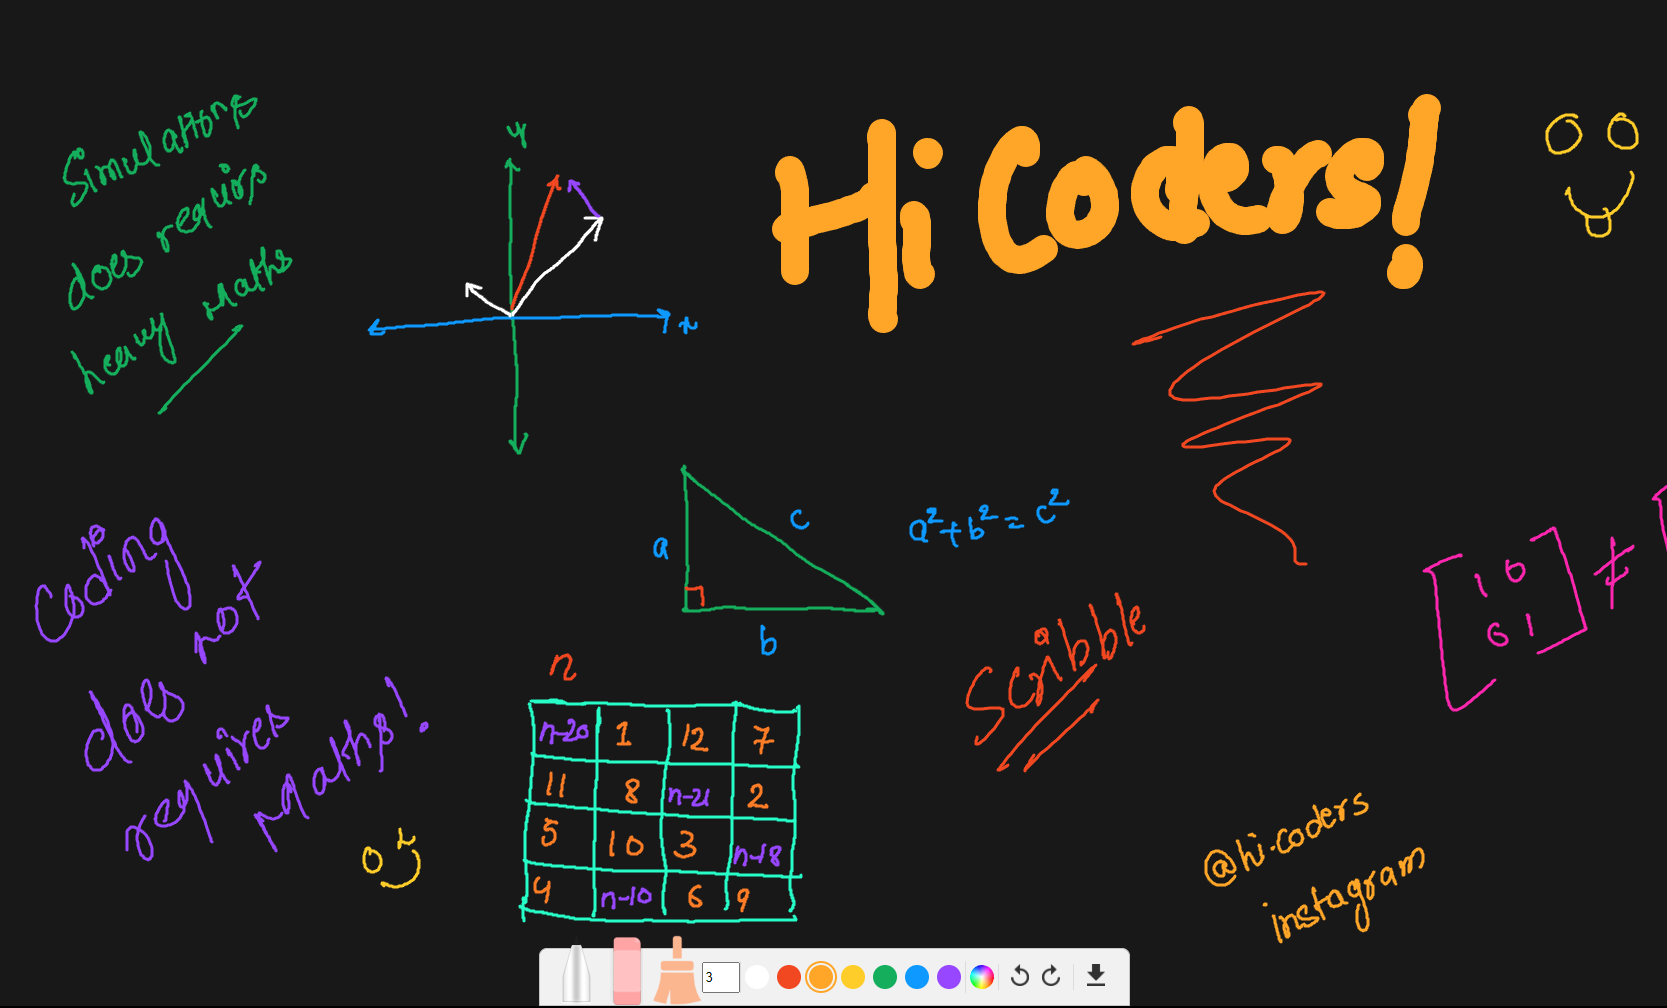
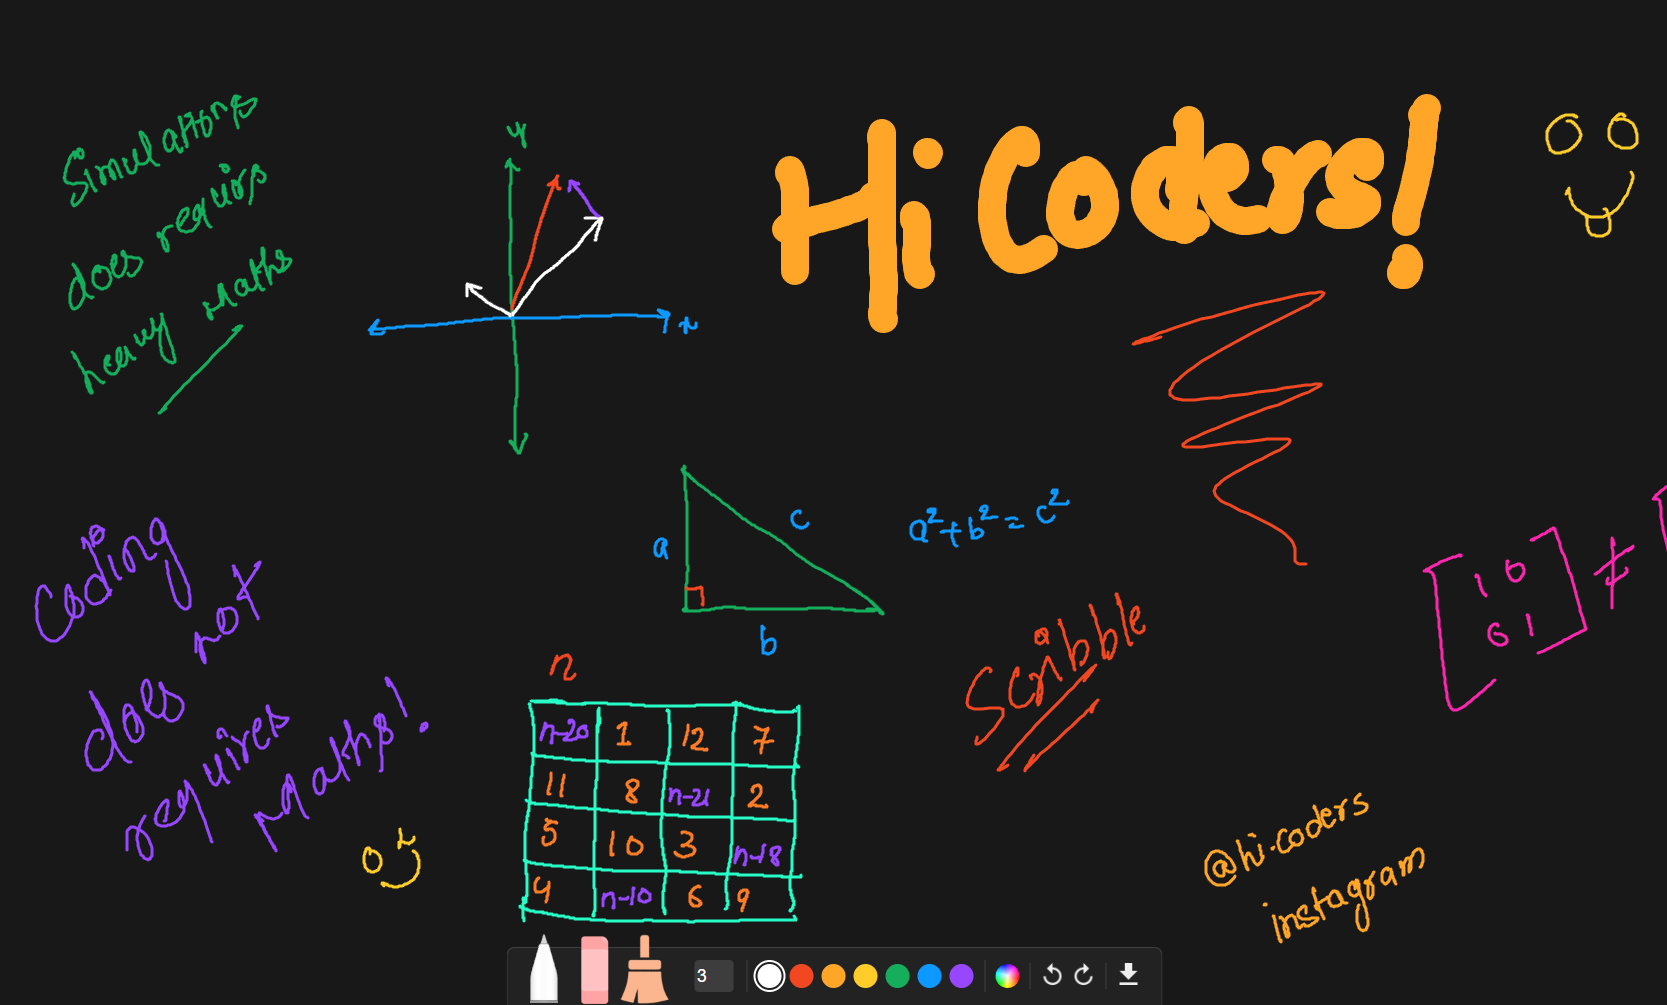
feat/fix: converted to dark mode & bug fix

diff --git a/index.html b/index.html
@@ -16,13 +16,13 @@
         <div class="dt-tools-container">
           <img src="./assets/eraser.png" title="Eraser" id="eraser" alt="" />
         </div>
-        <div class="dt-tools-container">
+        <div class="dt-tools-container" style="margin-right: 0.8rem">
           <img src="./assets/clear-all.png" title="clear" id="clear" alt="" />
         </div>
         <input type="number" min="1" max="100" id="size" value="3" />
 
         <div class="dt-dc-container">
-          <div class="dt-default-colors" data-color="#000000">
+          <div class="dt-default-colors" data-color="#ffffff">
             <div></div>
           </div>
           <div class="dt-default-colors" data-color="#f24822">
@@ -85,17 +85,23 @@
     </div>
     <script src="lib/DrawingTablet.js"></script>
     <script>
+      let isBrush = true;
+      let opts = {
+        brushColor: "#ffffff",
+        brushSize: parseInt(size.value),
+      };
+
+      // Initializing Drawing Tablet
       const dt = new DrawingTablet("#canvas-container", {
         logs: true,
         fullscreen: true,
-        brushSize: 5,
-        bg: "#ffffff",
+        brushSize: opts.brushSize,
+        bg: "#181818",
+        color: opts.brushColor,
         autosave: true,
       });
 
       dt.log("Drawing Tablet Initialized");
-
-      dt.brushSize = parseInt(size.value);
 
       const dcs = document.querySelectorAll(".dt-default-colors");
       const dcp = document.querySelectorAll(".dt-cp-container");
@@ -104,34 +110,37 @@
         e.children[0].style.background = e.dataset.color;
         selectColor();
         e.addEventListener("click", () => {
-          dt.brushColor = e.dataset.color;
+          if (isBrush) {
+            dt.brushColor = e.dataset.color;
+            opts.brushColor = e.dataset.color;
+          } else {
+            opts.brushColor = e.dataset.color;
+          }
           selectColor();
         });
       });
       function selectColor() {
         dcs.forEach((el) => {
           el.style.border = `2px solid  ${
-            dt.brushColor === el.dataset.color
+            opts.brushColor === el.dataset.color
               ? el.dataset.color
               : "transparent"
           }`;
         });
       }
-      dtPicker.oninput = (e) => {
+      dtPicker.addEventListener("input", (e) => {
         dt.brushColor = e.target.value;
         selectColor();
-      };
+      });
       download.addEventListener("click", () => {
         dt.download();
       });
       undo.addEventListener("click", () => {
         dt.undo();
       });
-
       redo.addEventListener("click", () => {
         dt.redo();
       });
-
       clear.addEventListener("click", () => {
         const b = confirm("Are you sure to clear?");
         if (b) {
@@ -140,12 +149,36 @@
       });
 
       eraser.addEventListener("click", () => {
-        dt.brushSize = 20;
+        isBrush = false;
+        opts = {
+          brushColor: dt.brushColor,
+          brushSize: dt.brushSize,
+        };
+        dt.brushSize = 40;
         dt.brushColor = dt.opts.bg;
+        isSelected();
       });
+
       size.addEventListener("input", (e) => {
         dt.brushSize = parseInt(e.target.value);
       });
+
+      brush.addEventListener("click", () => {
+        isBrush = true;
+        dt.brushSize = opts.brushSize;
+        dt.brushColor = opts.brushColor;
+        isSelected();
+      });
+
+      function isSelected() {
+        if (isBrush) {
+          document.querySelector("#brush").style.bottom = "-10px";
+          document.querySelector("#eraser").style.bottom = "-25px";
+        } else {
+          document.querySelector("#brush").style.bottom = "-25px";
+          document.querySelector("#eraser").style.bottom = "-10px";
+        }
+      }
     </script>
   </body>
 </html>

diff --git a/style.css b/style.css
@@ -19,18 +19,20 @@ body {
   transform: translateX(-50%);
   border-top-right-radius: 8px;
   border-top-left-radius: 8px;
-  border: 1px solid #c6c6c6;
-  background: #f1f1f1;
+  border: 1px solid #404040;
+  border-bottom: 1px solid transparent;
+  background: #222222;
   display: flex;
   align-items: center;
   padding: 12px;
 }
 .dt-dc-container {
-  border-left: 1px solid #dcdcdc;
-  border-right: 1px solid #dcdcdc;
+  border-left: 1px solid #404040;
+  border-right: 1px solid #404040;
   display: flex;
   align-items: center;
   justify-content: center;
+  padding: 0 0.4rem;
 }
 .dt-default-colors {
   position: relative;
@@ -59,6 +61,7 @@ body {
   display: flex;
   align-items: center;
   justify-content: center;
+  padding: 0 0.4rem;
 }
 .dt-color-picker {
   width: 24px;
@@ -94,20 +97,27 @@ body {
 .dt-tools-container img {
   position: absolute;
   max-height: 70px;
-  bottom: -28px;
+  bottom: -25px;
   transition: all 0.2s;
   cursor: pointer;
 }
 
 .dt-tools-container img:hover {
-  bottom: -5px;
-  transform: scale(1.2);
+  bottom: -10px;
+  opacity: 0.8;
+  transform: scale(1.1);
 }
 #size {
-  width: 30px;
-  height: 25px;
+  width: 35px;
+  height: 30px;
+  margin: 0 0.8rem;
+  border: none;
+  border-radius: 4px;
+  background: #3d3d3d;
+  color: #fff;
+  font-size: 18px;
+  font-weight: 500;
   -moz-appearance: textfield;
-  margin: 0;
 }
 #size::-webkit-outer-spin-button,
 #size::-webkit-inner-spin-button {
@@ -118,7 +128,7 @@ body {
   display: flex;
   align-items: center;
   justify-content: center;
-  border-left: 1px solid #dcdcdc;
+  border-left: 1px solid #404040;
   padding: 0 0.8rem;
 }
 
@@ -127,7 +137,7 @@ body {
   cursor: pointer;
 }
 .dt-download-container {
-  border-left: 1px solid #dcdcdc;
+  border-left: 1px solid #404040;
   padding: 0 0.8rem;
 }
 .dt-download-container img {

diff --git a/lib/DrawingTablet.js b/lib/DrawingTablet.js
@@ -258,6 +258,10 @@ class DrawingTablet {
     this.#opts.brushSize = size;
   }
 
+  get brushSize() {
+    return this.#opts.brushSize;
+  }
+
   set brushColor(color) {
     this.#opts.color = color;
   }

diff --git a/README.md b/README.md
@@ -28,7 +28,7 @@ const dt = new DrawingTablet("#canvas-container", {
 });
 ```
 
-Setter Methods
+**Setter Methods**
 
 ```
 dt.bg = "color"
@@ -36,16 +36,17 @@ dt.brushSize = number
 dt.brushColor = "color"
 ```
 
-Getter Methods
+**Getter Methods**
 
 ```
 dt.brushColor
+dt.brushSize
 dt.opts
 dt.ctx
 dt.canvas
 ```
 
-Public Method
+**Public Method**
 
 ```
 dt.log()
